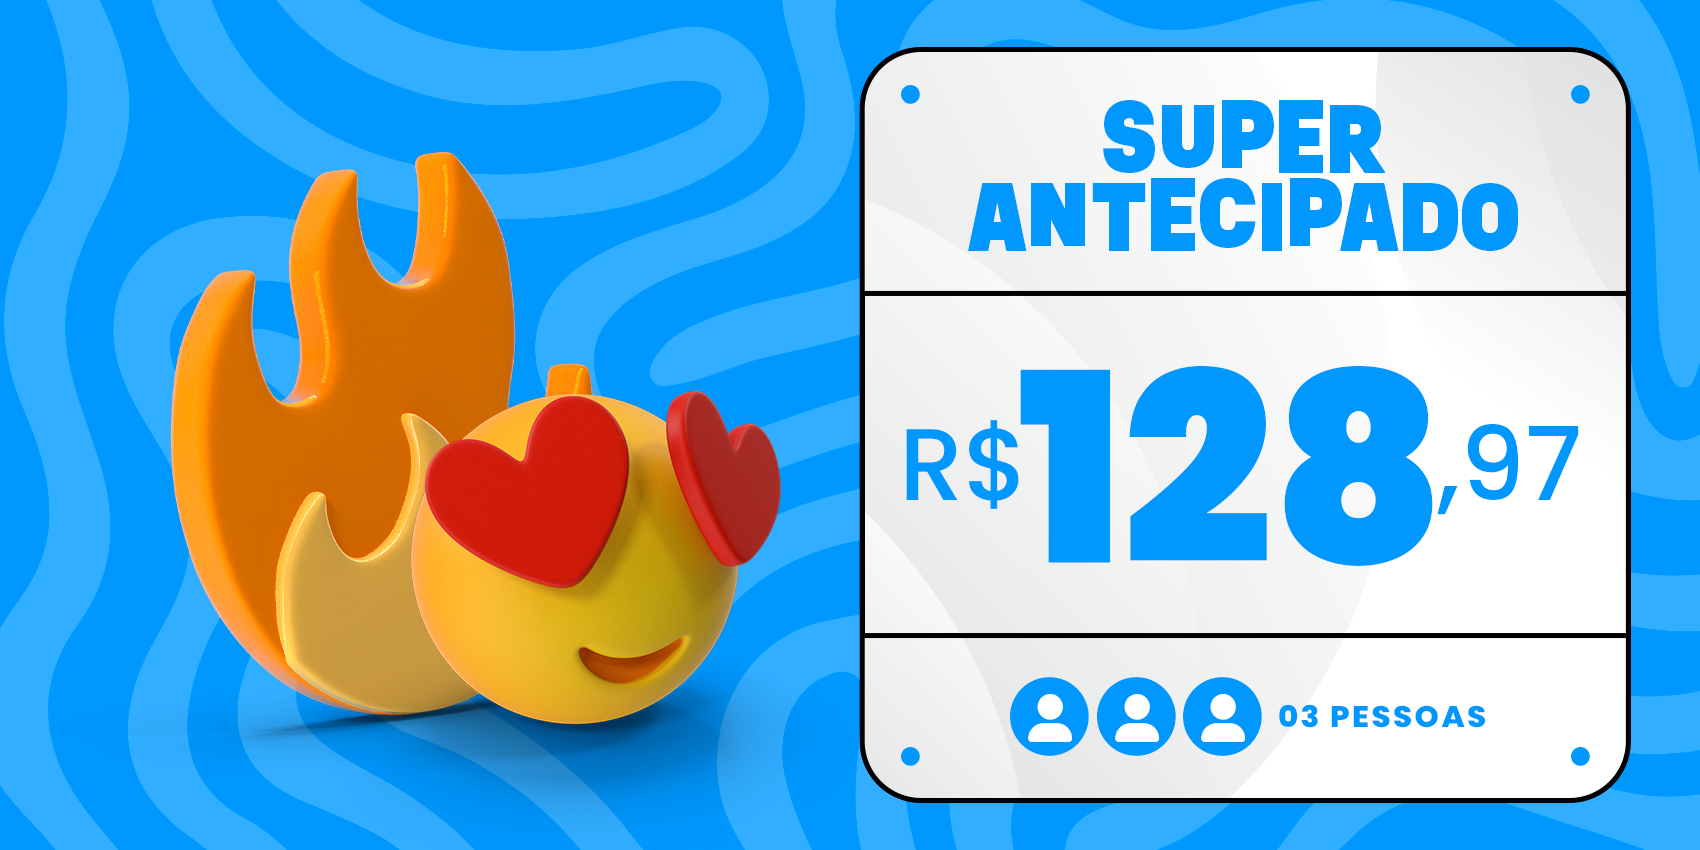
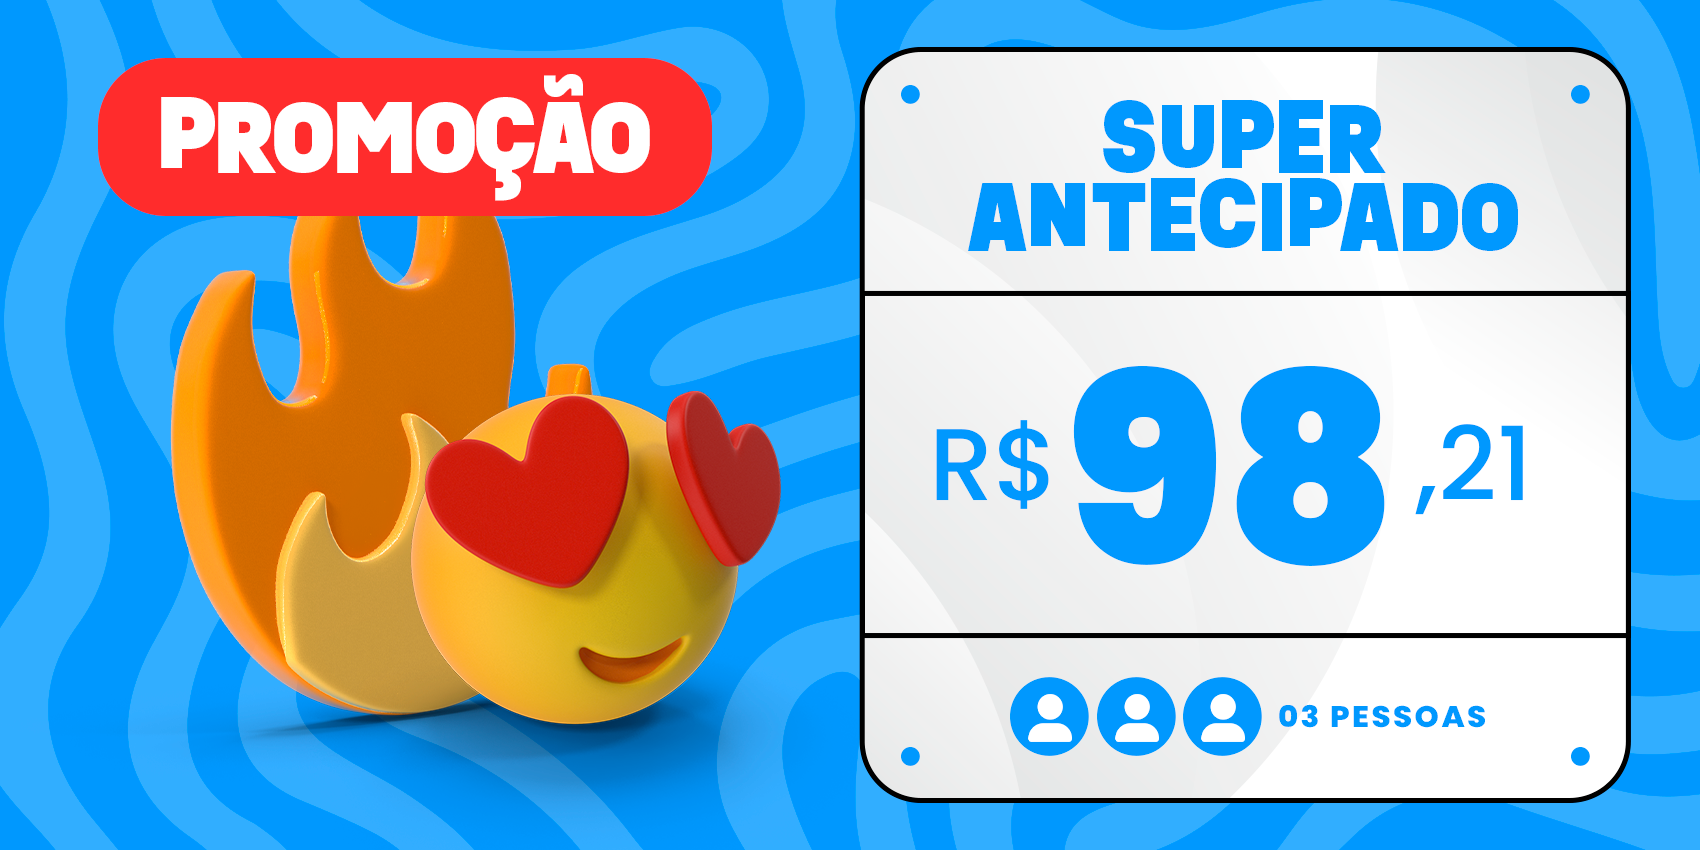
feat: add promo nico

Changed region(s): [[0.0312, 0.0612, 0.4365, 0.2753], [0.53, 0.4282, 0.9353, 0.6729]]

diff --git a/src/pages/index.tsx b/src/pages/index.tsx
@@ -1,7 +1,6 @@
 import 'swiper/css'
 import 'swiper/css/navigation'
 
-import Button from '@/components/atoms/Button'
 import SlideImage from '@/components/atoms/SlideImage'
 import Attractions from '@/components/organisms/Attractions'
 import Tickets from '@/components/organisms/Tickets'
@@ -10,12 +9,10 @@ import Banner360Web from '@/public/images/banners/360-desktop.png'
 import Banner360Mobile from '@/public/images/banners/360-mobile.png'
 import BannerBrinquedosWeb from '@/public/images/banners/brinquedos-desktop.png'
 import BannerBrinquedosMobile from '@/public/images/banners/brinquedos-mobile.png'
-import CarnavalWeb from '@/public/images/banners/carnaval-desktop.png'
-import CarnavalMobile from '@/public/images/banners/carnaval-mobile.png'
-import BannerFeriasWeb from '@/public/images/banners/ferias-desktop.png'
-import BannerFeriasMobile from '@/public/images/banners/ferias-mobile.png'
 import NicoCardsWeb from '@/public/images/banners/nicocards-desktop.png'
 import NicoCardsMobile from '@/public/images/banners/nicocards-mobile.png'
+import BannerPromoNicoWeb from '@/public/images/banners/promo-nico-desktop.png'
+import BannerPromoNicoMobile from '@/public/images/banners/promo-nico-mobile.png'
 import NicoAppDark from '@/public/images/brands/nicoapp-dark.svg'
 import GooglePlay from '@/public/images/googleplay.png'
 import Head from 'next/head'
@@ -60,6 +57,14 @@ export default function HomePage() {
             nextEl: '.main-swiper-next',
           }}
         >
+          <SwiperSlide>
+            <SlideImage
+              alt="Diversão para toda a Família!"
+              mobile={BannerPromoNicoMobile}
+              desktop={BannerPromoNicoWeb}
+            />
+          </SwiperSlide>
+
           <SwiperSlide>
             <SlideImage
               alt="Diversão para toda a Família!"

diff --git a/src/pages/passaportes/index.tsx b/src/pages/passaportes/index.tsx
@@ -72,7 +72,7 @@ export default function PassaportsPage() {
                   isPassport
                 />
 
-                <Ticket
+                {/* <Ticket
                   id={14}
                   name="Combo Antecipado"
                   price={8997}
@@ -80,12 +80,12 @@ export default function PassaportsPage() {
                   quantity={2}
                   reference={6297}
                   isPassport
-                />
+                /> */}
 
                 <Ticket
                   id={17}
                   name="Super Antecipado"
-                  price={12897}
+                  price={9891}
                   banner={SuperAntecipado}
                   quantity={3}
                   reference={6297}

diff --git a/src/components/organisms/Tickets.tsx b/src/components/organisms/Tickets.tsx
@@ -63,7 +63,7 @@ export default function Tickets() {
             />
           </SwiperSlide>
 
-          <SwiperSlide>
+          {/* <SwiperSlide>
             <Ticket
               id={14}
               name="Combo Antecipado"
@@ -73,13 +73,13 @@ export default function Tickets() {
               reference={6297}
               isPassport
             />
-          </SwiperSlide>
+          </SwiperSlide> */}
 
           <SwiperSlide>
             <Ticket
               id={17}
               name="Super Antecipado"
-              price={12897}
+              price={9891}
               banner={SuperAntecipado}
               quantity={3}
               reference={6297}
